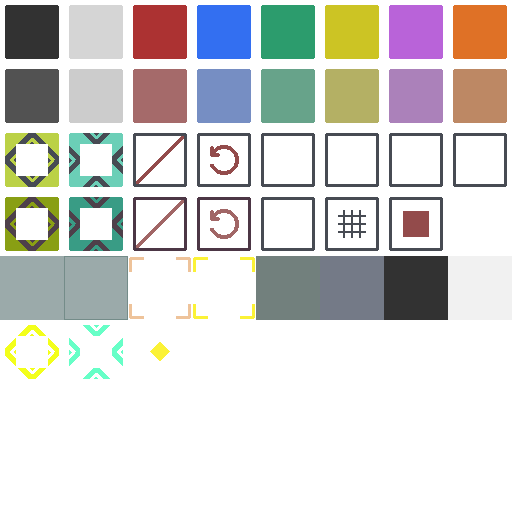
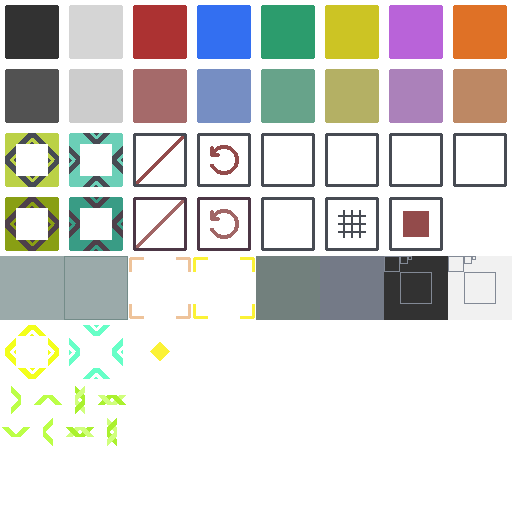
Improve appearance of arrow

Changed region(s): [[0.0, 0.75, 0.25, 0.875], [0.875, 0.5, 0.9688, 0.5938], [0.75, 0.5, 0.8438, 0.5938]]

diff --git a/scene/component/processor/monitor/ComponentProcessorMonitorActivationLayer.cs b/scene/component/processor/monitor/ComponentProcessorMonitorActivationLayer.cs
@@ -1,36 +1,10 @@
 using Godot;
-using System.Collections.Generic;
 
 public partial class ComponentProcessorMonitorActivationLayer : TileMapLayer
 {
-    public void Activate(Vector2I coords, ComponentUnitMemory memory, bool isDetailed)
-    {
-        Vector2I baseCoords = new(coords.X * 4, coords.Y * 4);
-        for (int i = 0; i < 4; i++)
-            for (int j = 0; j < 4; j++)
-                EraseCell(baseCoords + new Vector2I(i, j));
-        if (!isDetailed)
-        {
-            foreach (var dir in _directionOffsets.Keys)
-            {
-                if (memory.ReceivedPictures[dir].Count != 0 ||
-                    memory.SendingPictures[dir].Count != 0)
-                {
-                    Assign(baseCoords, _diamondBaseCoords, _diamondOffsets);
-                    return;
-                }
-            }
-            return;
-        }
-        else foreach (var dir in _directionOffsets.Keys)
-        {
-            if (memory.ReceivedPictures[dir].Count != 0)
-                Assign(baseCoords, _inputBaseCoords, _directionOffsets[dir]);
-            if (memory.SendingPictures[dir].Count != 0)
-                Assign(baseCoords, _outputBaseCoords, _directionOffsets[dir]);
-        }
-    }
-
+    public void EraseTile(Vector2I coords)
+        => Erase(BaseCoordsFrom(coords));
+    
     // Below this comment, all the members are (somehow) private.
     // No need to read them unless you are modifying this class.
     private int _sourceID;
@@ -39,29 +13,22 @@ public partial class ComponentProcessorMonitorActivationLayer : TileMapLayer
         base._Ready();
         _sourceID = TileSet.GetSourceId(0);
     }
-    private void Assign(Vector2I baseCoords, Vector2I atlasBaseCoords, Vector2I[] offsets)
+    protected static Vector2I BaseCoordsFrom(Vector2I coords)
+        => new(coords.X * 4, coords.Y * 4);
+    protected void Erase(Vector2I baseCoords)
+    {
+        for (int i = 0; i < 4; i++)
+            for (int j = 0; j < 4; j++)
+                EraseCell(baseCoords + new Vector2I(i, j));
+    }
+    protected void Assign(Vector2I baseCoords, Vector2I atlasBaseCoords, Vector2I[] offsets)
     {
         foreach (var offset in offsets)
-        {
-            SetCell(baseCoords + offset,
-                    _sourceID,
-                    atlasBaseCoords + offset);
-        }
+            SetCell(baseCoords + offset, _sourceID, atlasBaseCoords + offset);
     }
-    private void Erase(Vector2I baseCoords, Direction direction)
+    protected void Erase(Vector2I baseCoords, Vector2I[] offsets)
     {
-        EraseCell(baseCoords + _directionOffsets[direction][0]);
-        EraseCell(baseCoords + _directionOffsets[direction][1]);
+        foreach (var offset in offsets)
+            EraseCell(baseCoords + offset);
     }
-    private static readonly Vector2I _inputBaseCoords = new(4, 20);
-    private static readonly Vector2I _outputBaseCoords = new(0, 20);
-    private static readonly Dictionary<Direction, Vector2I[]> _directionOffsets = new()
-    {
-        {Direction.Up,    [new(1, 0), new(2, 0)]},
-        {Direction.Left,  [new(0, 1), new(0, 2)]},
-        {Direction.Down,  [new(1, 3), new(2, 3)]},
-        {Direction.Right, [new(3, 1), new(3, 2)]},
-    };
-    private static readonly Vector2I _diamondBaseCoords = new(8, 20);
-    private static readonly Vector2I[] _diamondOffsets = [new(1, 1), new(1, 2), new(2, 1), new(2, 2)];
 }

diff --git a/scene/component/processor/monitor/ComponentProcessorMonitor.cs b/scene/component/processor/monitor/ComponentProcessorMonitor.cs
@@ -5,23 +5,28 @@ public partial class ComponentProcessorMonitor : Node2D, IMouseInputable
 {
     public bool IsMouseEnabled { get; set; } = false;
     public IDictionary<Vector2I, ComponentUnitMemory> Memories => _memories;
-    public List<Vector2I> DetailedMemoriesCoords { get; } = [];
+    public List<Vector2I> SpecialCoords { get; } = [];
     public void Initialize()
     {
         _memories.Clear();
-        _activationLayer.Clear();
+        _activationGeneralLayer.Clear();
+        _activationSpecialLayer.Clear();
     }
     public void Refresh()
     {
         foreach (var (coords, memory) in _memories)
-            _activationLayer.Activate(coords, memory, DetailedMemoriesCoords.Contains(coords));
-        if (IsMouseEnabled) UpdateDetailed(CoordsFrom(GetGlobalMousePosition()));
+            _activationGeneralLayer.ActivateTile(coords, memory);
+        foreach (var coords in SpecialCoords)
+            if (Memories.TryGetValue(coords, out ComponentUnitMemory memory))
+                _activationSpecialLayer.ActivateTile(coords, memory);
     }
 
     // Below this comment, all the members are (somehow) private.
     // No need to read them unless you are modifying this class.
     [Export]
-    private ComponentProcessorMonitorActivationLayer _activationLayer;
+    private ComponentProcessorMonitorActivationGeneralLayer _activationGeneralLayer;
+    [Export]
+    private ComponentProcessorMonitorActivationSpecialLayer _activationSpecialLayer;
     [Export]
     private ComponentProcessorMonitorDisplayer _displayer;
     private readonly Dictionary<Vector2I, ComponentUnitMemory> _memories = [];
@@ -34,21 +39,10 @@ public partial class ComponentProcessorMonitor : Node2D, IMouseInputable
     void IMouseInputable.OnMouseMotion(Vector2 position, Vector2 relative, MouseButtonMask mask, MouseButton lastButton, Vector2? lastPosition)
     {
         if (!IsMouseEnabled) return;
-        UpdateDetailed(CoordsFrom(position));
         /* if (_mainLayer.GetActivation(CoordsFrom(position)))
             _popupPanel.ShowAt(_mainLayer.MapToLocal(CoordsFrom(position)));
         else _popupPanel.Hide(); */
     }
     private Vector2I CoordsFrom(Vector2 position)
-        => _activationLayer.LocalToMap(_activationLayer.ToLocal(position)) / new Vector2I(4, 4);
-    private void UpdateDetailed(Vector2I coords)
-    {
-        if (Memories.TryGetValue(_lastDetailedMemoryCoords, out ComponentUnitMemory last))
-            _activationLayer.Activate(_lastDetailedMemoryCoords, last, DetailedMemoriesCoords.Contains(_lastDetailedMemoryCoords));
-        if (Memories.TryGetValue(coords, out ComponentUnitMemory current))
-        {
-            _activationLayer.Activate(coords, current, true);
-            _lastDetailedMemoryCoords = coords;
-        }
-    }
+        => _activationSpecialLayer.LocalToMap(_activationSpecialLayer.ToLocal(position)) / new Vector2I(4, 4);
 }

diff --git a/scene/component/processor/monitor/ComponentProcessorMonitorActivationGeneralLayer.cs b/scene/component/processor/monitor/ComponentProcessorMonitorActivationGeneralLayer.cs
@@ -1,0 +1,55 @@
+using Godot;
+using System.Collections.Generic;
+
+public partial class ComponentProcessorMonitorActivationGeneralLayer : ComponentProcessorMonitorActivationLayer
+{
+    public void ActivateTile(Vector2I coords, ComponentUnitMemory memory)
+    {
+        Vector2I baseCoords = BaseCoordsFrom(coords);
+        foreach (var dir in _directionOffsets.Keys)
+        {
+            if (memory.ReceivedPictures[dir].Count != 0)
+                GeneralAssign(baseCoords, dir, true);
+            else if (memory.SendingPictures[dir].Count != 0)
+                GeneralAssign(baseCoords, dir, false);
+            else Erase(baseCoords + _directionOffsets[dir], offsets);
+        }
+    }
+
+    // Below this comment, all the members are (somehow) private.
+    // No need to read them unless you are modifying this class.
+    private void GeneralAssign(Vector2I baseCoords, Direction direction, bool isFlipped)
+    {
+        Vector2I assignBaseCoords = baseCoords + _directionOffsets[direction];
+        Vector2I currentAtlasCoords = GetCellAtlasCoords(assignBaseCoords);
+        if (currentAtlasCoords == new Vector2I(-1, -1))
+            Assign(assignBaseCoords,
+                   isFlipped ?
+                   _directionAtlasBaseCoords[direction.ToOppositeDirection()] :
+                   _directionAtlasBaseCoords[direction],
+                   offsets);
+        if (currentAtlasCoords == _directionAtlasBaseCoords[isFlipped ? direction: direction.ToOppositeDirection()])
+            Assign(assignBaseCoords,
+                   isFlipped ? 
+                   _directionAtlasBaseCoords[direction.ToOppositeDirection()] + _atlasDualOffset :
+                   _directionAtlasBaseCoords[direction] + _atlasDualOffset,
+                   offsets);
+    }
+    private static readonly Vector2I[] offsets = [new(0, 0), new(0, 1), new(1, 0), new(1, 1)];
+
+    private static readonly Vector2I _atlasDualOffset = new(4, 0);
+    private static readonly Dictionary<Direction, Vector2I> _directionAtlasBaseCoords = new()
+    {
+        {Direction.Up,    new(2, 24)},
+        {Direction.Left,  new(2, 26)},
+        {Direction.Down,  new(0, 26)},
+        {Direction.Right, new(0, 24)},
+    };
+    private static readonly Dictionary<Direction, Vector2I> _directionOffsets = new()
+    {
+        {Direction.Up,    new(1, -1)},
+        {Direction.Left,  new(-1, 1)},
+        {Direction.Down,  new(1, 3)},
+        {Direction.Right, new(3, 1)},
+    };
+}

diff --git a/scene/component/processor/monitor/ComponentProcessorMonitorActivationSpecialLayer.cs b/scene/component/processor/monitor/ComponentProcessorMonitorActivationSpecialLayer.cs
@@ -1,0 +1,30 @@
+using Godot;
+using System.Collections.Generic;
+
+public partial class ComponentProcessorMonitorActivationSpecialLayer : ComponentProcessorMonitorActivationLayer
+{
+    public void ActivateTile(Vector2I coords, ComponentUnitMemory memory)
+    {
+        Vector2I baseCoords = BaseCoordsFrom(coords);
+        Erase(baseCoords);
+        foreach (var dir in _directionOffsets.Keys)
+        {
+            if (memory.ReceivedPictures[dir].Count != 0)
+                Assign(baseCoords, _inputAltasBaseCoords, _directionOffsets[dir]);
+            if (memory.SendingPictures[dir].Count != 0)
+                Assign(baseCoords, _outputAtlasBaseCoords, _directionOffsets[dir]);
+        }
+    }
+
+    // Below this comment, all the members are (somehow) private.
+    // No need to read them unless you are modifying this class.
+    private static readonly Vector2I _inputAltasBaseCoords = new(4, 20);
+    private static readonly Vector2I _outputAtlasBaseCoords = new(0, 20);
+    private static readonly Dictionary<Direction, Vector2I[]> _directionOffsets = new()
+    {
+        {Direction.Up,    [new(1, 0), new(2, 0)]},
+        {Direction.Left,  [new(0, 1), new(0, 2)]},
+        {Direction.Down,  [new(1, 3), new(2, 3)]},
+        {Direction.Right, [new(3, 1), new(3, 2)]},
+    };
+}

diff --git a/scene/component/processor/ComponentProcessor.cs b/scene/component/processor/ComponentProcessor.cs
@@ -21,7 +21,7 @@ public partial class ComponentProcessor: Node2D
             Monitor.Memories[coords] = processable.GetCurrentMemory();
             if (processable is ComponentProcessorUnitInput ||
                 processable is ComponentProcessorUnitOutput)
-                Monitor.DetailedMemoriesCoords.Add(coords);
+                Monitor.SpecialCoords.Add(coords);
         }
         foreach (var (dir, picts) in inputPicts) InputReceived?.Invoke(this, new(dir, picts));
     }
